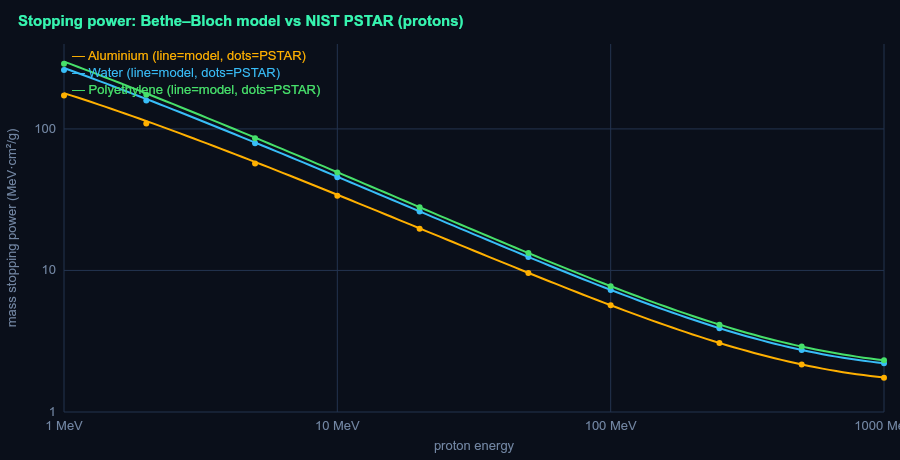
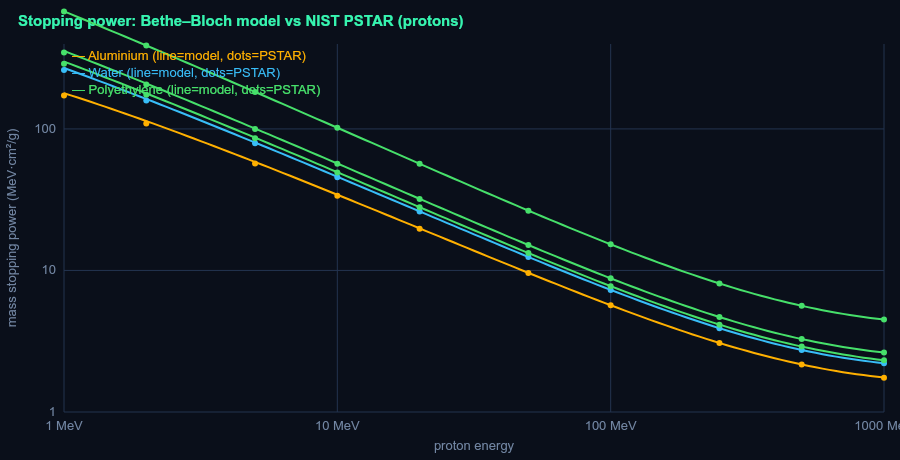
A2: surface the 5-material ranking in report plot + on-page panel
Make the hydrogen-content shielding ranking visible everywhere it's claimed:
- generateReport.ts: shielding plot now draws all 5 materials (H2/CH4 added with their
  trace colours + legend); the §3 markdown rewritten to the H2<CH4<PE<water<Al ranking,
  numbers live from the validation summary (H2 cuts dose up to 44.2% vs Al; PE 11.6% @20).
- dose.worker.ts: the panel's shielding-trend check now calls computeShieldingTrendSummary()
  (the SAME function the report uses) instead of an inline poly<Al loop — single source for
  the trend, no drift. ValidationData.trendWorst -> trendBest (H2-vs-Al margin).
- main.ts: panel row now reads 'Shields rank by hydrogen content: H2 < CH4 < PE < water < Al
  — hydrogen beats aluminium by up to 44.2%'.
- report/: regenerated (also catches the NIST plot up to all 5 materials).
Verified: typecheck 0, 103 tests, build clean; live panel shows 44.2% = report = engine; no
console errors. (NIST/RAD panel values still inline in the worker — full b-panel merge later.)

diff --git a/src/report/generateReport.ts b/src/report/generateReport.ts
@@ -32,7 +32,7 @@ mkdirSync(PLOTS, { recursive: true });
 // ---- theme -----------------------------------------------------------------
 const C = {
   bg: '#0a0f1a', panel: '#0e1626', grid: '#22324e', dim: '#7286a3', text: '#cdd9ea',
-  al: '#ffb000', poly: '#46e06a', water: '#38bdf8', accent: '#36f5b0', warn: '#ff6b6b', mark: '#e7f0ff',
+  al: '#ffb000', poly: '#46e06a', water: '#38bdf8', hydrogen: '#ff79c6', methane: '#a78bfa', accent: '#36f5b0', warn: '#ff6b6b', mark: '#e7f0ff',
 };
 const FONT = '13px sans-serif';
 type Ctx = SKRSContext2D;
@@ -99,11 +99,11 @@ function plotShielding(thick: number[], series: Record<string, number[]>): strin
   for (let t = 0; t <= tMax; t += 5) { const x = xOf(t); ctx.beginPath(); ctx.moveTo(x, pad.t); ctx.lineTo(x, pad.t + ph); ctx.stroke(); ctx.textAlign = 'center'; ctx.fillText(String(t), x, H - pad.b + 18); }
   ctx.textAlign = 'center'; ctx.fillText('shield areal density (g/cm²)', pad.l + pw / 2, H - 10);
   ctx.save(); ctx.translate(16, pad.t + ph / 2); ctx.rotate(-Math.PI / 2); ctx.fillText('dose-equivalent (mSv/day)', 0, 0); ctx.restore();
-  const cols: Record<string, string> = { aluminum: C.al, polyethylene: C.poly, water: C.water };
-  for (const k of ['aluminum', 'water', 'polyethylene']) { ctx.strokeStyle = cols[k]!; ctx.lineWidth = 2.4; ctx.beginPath(); series[k]!.forEach((h, i) => { const x = xOf(thick[i]!); const y = yOf(h); i ? ctx.lineTo(x, y) : ctx.moveTo(x, y); }); ctx.stroke(); }
+  const cols: Record<string, string> = { aluminum: C.al, polyethylene: C.poly, water: C.water, hydrogen: C.hydrogen, methane: C.methane };
+  for (const k of ['aluminum', 'water', 'polyethylene', 'methane', 'hydrogen']) { ctx.strokeStyle = cols[k]!; ctx.lineWidth = 2.4; ctx.beginPath(); series[k]!.forEach((h, i) => { const x = xOf(thick[i]!); const y = yOf(h); i ? ctx.lineTo(x, y) : ctx.moveTo(x, y); }); ctx.stroke(); }
   ctx.textAlign = 'left';
-  const leg = [['Aluminium', C.al], ['Water', C.water], ['Polyethylene (best per g/cm²)', C.poly]] as const;
-  leg.forEach(([t, c], i) => { ctx.fillStyle = c; ctx.fillText('— ' + t, pad.l + pw - 220, pad.t + 16 + i * 17); });
+  const leg = [['Hydrogen (best)', C.hydrogen], ['Methane', C.methane], ['Polyethylene (best solid)', C.poly], ['Water', C.water], ['Aluminium', C.al]] as const;
+  leg.forEach(([t, c], i) => { ctx.fillStyle = c; ctx.fillText('— ' + t, pad.l + pw - 200, pad.t + 16 + i * 17); });
   return save(canvas, 'shielding_curve.png');
 }
 
@@ -179,7 +179,7 @@ const free = computeFreeSpaceDose(W_SOLAR_MIN);
 const feFrac = (free.perSpecies.find((p) => p.Z === 26)?.doseEqFraction ?? 0) * 100;
 
 const thick: number[] = []; for (let t = 0; t <= 40 + 1e-9; t += 2) thick.push(t);
-const series: Record<string, number[]> = { aluminum: [], polyethylene: [], water: [] };
+const series: Record<string, number[]> = { aluminum: [], polyethylene: [], water: [], hydrogen: [], methane: [] };
 for (const m of Object.keys(series)) for (const t of thick) series[m]!.push(computeShieldedDose(m, t, W_SOLAR_MIN).doseEquivalent_mSv_day);
 const i20 = thick.indexOf(20);
 const polyBenefit20 = (1 - series.polyethylene![i20]! / series.aluminum![i20]!) * 100;
@@ -252,13 +252,14 @@ upper bounds (free space, primaries only) that exceed shielded measurements — 
 
 ## 3. Shielding: dose-equivalent vs material
 
-At equal areal density, hydrogen-rich **polyethylene shields better than aluminium**
-(more electrons per gram → more stopping per g/cm²); water sits between them, matching the
-⟨Z/A⟩ ordering. At 20 g/cm², polyethylene beats aluminium by **${fx(polyBenefit20, 1)}%** in this
-primary-only model.
+At equal areal density the five shields rank **exactly by hydrogen content** (⟨Z/A⟩) — more
+electrons per gram stop more per g/cm². Dose-equivalent increases strictly along
+**hydrogen < methane < polyethylene < water < aluminium** at every thickness from 5 to 40 g/cm²
+(validated). Hydrogen, the per-mass optimum, cuts dose-equivalent up to **${fx(validation.trend.maxBestBenefitPct, 1)}%**
+below aluminium; polyethylene — the best *solid* — beats aluminium by **${fx(polyBenefit20, 1)}%** at 20 g/cm² in this primary-only model.
 
-> Honest caveat: this primary-only model *under*-states polyethylene's real advantage, which
-> also comes from its lower nuclear fragmentation (fewer/lighter secondaries) — Phase 5.
+> Honest caveat: this primary-only model *under*-states the hydrogen-rich materials' real
+> advantage, which also comes from their lower nuclear fragmentation (fewer/lighter secondaries) — Phase 5.
 
 ![Shielding curve](${shieldPng})
 

diff --git a/src/ui/dose.worker.ts b/src/ui/dose.worker.ts
@@ -5,6 +5,7 @@
 import { computeShieldedDose } from '../dose/shieldedDose.js';
 import { computeFragmentedDose } from '../dose/fragmentedDose.js';
 import { computeRadComparison } from '../dose/radComparison.js';
+import { computeShieldingTrendSummary } from '../validation/validationSummary.js';
 import type { RadComparison } from '../dose/radComparison.js';
 import { electronicMassStoppingPower } from '../physics/stoppingPower.js';
 import { MATERIALS } from '../physics/materials.js';
@@ -52,7 +53,8 @@ export interface ValidationData {
   /** NIST PSTAR max % error over all energies (1–1000 MeV) */
   nistMaxAll: number;
   trendOk: boolean;
-  trendWorst: number;
+  /** max % the best shield (hydrogen) beats the worst (aluminium) at equal areal density */
+  trendBest: number;
   /** MSL/RAD comparison — the SAME function `npm run report` uses */
   rad: RadComparison;
   radSigma: { D: number; H: number; Q: number };
@@ -78,15 +80,8 @@ function runValidation(): ValidationData {
     }
   }
 
-  // 2. Shielding trend: polyethylene < aluminium at equal areal density.
-  let trendOk = true;
-  let trendWorst = 0;
-  for (const t of [10, 20, 30]) {
-    const al = computeShieldedDose('aluminum', t, W_SOLAR_MIN).doseEquivalent_mSv_day;
-    const poly = computeShieldedDose('polyethylene', t, W_SOLAR_MIN).doseEquivalent_mSv_day;
-    if (!(poly < al)) trendOk = false;
-    trendWorst = Math.max(trendWorst, (1 - poly / al) * 100);
-  }
+  // 2. Shielding trend: the full H2<CH4<PE<water<Al ranking — shared with `npm run report`.
+  const trend = computeShieldingTrendSummary();
 
   // 3. MSL/RAD cruise comparison (model vs measured, with ratios).
   const rad = computeRadComparison();
@@ -94,8 +89,8 @@ function runValidation(): ValidationData {
   return {
     nistMaxSolid,
     nistMaxAll,
-    trendOk,
-    trendWorst,
+    trendOk: trend.ok,
+    trendBest: trend.maxBestBenefitPct,
     rad,
     radSigma: { D: RAD_CRUISE.doseRate_sigma, H: RAD_CRUISE.doseEquivalent_sigma, Q: RAD_CRUISE.meanQ_sigma },
     cruiseW: W_CRUISE_2012,

diff --git a/src/ui/main.ts b/src/ui/main.ts
@@ -200,8 +200,8 @@ function renderValidation(d: ValidationData): void {
     ) +
     check(
       d.trendOk,
-      'Polyethylene < aluminium at equal areal density',
-      `poly better by up to ${f(d.trendWorst, 1)}%`,
+      'Shields rank by hydrogen content: H₂ < CH₄ < PE < water < Al',
+      `hydrogen beats aluminium by up to ${f(d.trendBest, 1)}%`,
     ) +
     `<div style="margin-top:12px;background:#091020;border:1px solid var(--edge);border-radius:8px;padding:12px">
       <div style="font-size:11px;color:var(--accent);letter-spacing:1px;margin-bottom:6px">MSL/RAD CRUISE — MODEL vs MEASURED</div>

diff --git a/report/DOSEFIELD_report.md b/report/DOSEFIELD_report.md
@@ -45,13 +45,14 @@ upper bounds (free space, primaries only) that exceed shielded measurements — 
 
 ## 3. Shielding: dose-equivalent vs material
 
-At equal areal density, hydrogen-rich **polyethylene shields better than aluminium**
-(more electrons per gram → more stopping per g/cm²); water sits between them, matching the
-⟨Z/A⟩ ordering. At 20 g/cm², polyethylene beats aluminium by **11.6%** in this
-primary-only model.
+At equal areal density the five shields rank **exactly by hydrogen content** (⟨Z/A⟩) — more
+electrons per gram stop more per g/cm². Dose-equivalent increases strictly along
+**hydrogen < methane < polyethylene < water < aluminium** at every thickness from 5 to 40 g/cm²
+(validated). Hydrogen, the per-mass optimum, cuts dose-equivalent up to **44.2%**
+below aluminium; polyethylene — the best *solid* — beats aluminium by **11.6%** at 20 g/cm² in this primary-only model.
 
-> Honest caveat: this primary-only model *under*-states polyethylene's real advantage, which
-> also comes from its lower nuclear fragmentation (fewer/lighter secondaries) — Phase 5.
+> Honest caveat: this primary-only model *under*-states the hydrogen-rich materials' real
+> advantage, which also comes from their lower nuclear fragmentation (fewer/lighter secondaries) — Phase 5.
 
 ![Shielding curve](plots/shielding_curve.png)
 
